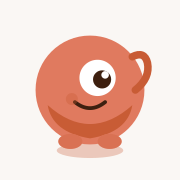
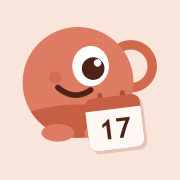
Give TEMPPO a mascot that holds the day, and put billing away until it is real
The old mark was a friendly blob. This one holds a calendar card, which says
what the product is at 32 pixels — the size it is actually seen at, in the
sidebar and on a home screen.

The artwork lives in two places, because one is JSX and the other is fed to a
rasteriser, and there is no loader that would serve both. They are now
cross-referenced so a change to one is a change to both, followed by
`npm run icons`.

The rasteriser has no webfonts, so the date asked for Nunito and silently got a
serif — the one thing on the mark that has to read as a number. The PNG path now
names faces fontconfig can resolve. The delivered app icon's own rounded corners
were dropped too: iOS and Android mask icons themselves, and a baked-in radius
gets rounded twice.

Billing is hidden behind one flag, for every role. No studio is being charged
yet, so a "choose a plan" tab and a "your trial is ending" banner both offer a
decision nobody can act on — and the banner would point at a tab that is no
longer there. The route still answers, so the Mercado Pago flow can be exercised
before it is announced; the flag is the whole launch.

Also finishes the guided tour's settings steps. Studio, rules, sedes and team
all live on one page, so "llevame ahí" pushed the route it was already on and
did nothing. They point at their own section now — and scrolling no longer
trusts `behavior: "smooth"`, which is a silent no-op in some in-app browsers:
[…]

Changed region(s): [[0.1111, 0.1389, 0.8889, 0.8889]]

diff --git a/src/components/brand.tsx b/src/components/brand.tsx
@@ -5,55 +5,80 @@ import { cn } from "@/lib/cn";
  *
  * Colours are literal rather than themed: this is the company mark, so it
  * stays constant even when a studio overrides the app's accent colour.
+ *
+ * The same artwork is rasterised into the PWA icon set by scripts/icons.mjs —
+ * change one and run `npm run icons` so the two do not drift apart.
  */
 export function Mascot({ className, size = 32 }: { className?: string; size?: number }) {
   return (
     <svg
       width={size}
       height={size}
-      viewBox="0 0 100 100"
+      viewBox="0 0 240 240"
       fill="none"
       className={className}
       aria-hidden
     >
-      {/* Ground shadow */}
-      <ellipse cx="50" cy="90" rx="22" ry="5" fill="#C85C35" opacity="0.3" />
+      {/* The inner offset is part of the artwork: it centres the mascot once
+          the calendar card it holds is accounted for. */}
+      <g transform="translate(-9,-4)">
+        {/* Tail */}
+        <path
+          d="M170 62 A34 34 0 1 1 174 114"
+          fill="none"
+          stroke="#D2694A"
+          strokeWidth="15"
+          strokeLinecap="round"
+        />
 
-      {/* Body */}
-      <circle cx="50" cy="50" r="36" fill="#E07A5F" />
-      <path d="M22 60 Q50 85 78 60 Q75 78 50 82 Q25 78 22 60Z" fill="#C85C35" />
+        {/* Body */}
+        <circle cx="110" cy="112" r="88" fill="#DD7C63" />
+        <path d="M35 158 Q110 136 185 158 A88 88 0 0 1 35 158 Z" fill="#C75F43" />
 
-      {/* Feet */}
-      <ellipse cx="37" cy="84" rx="8" ry="5" fill="#E07A5F" />
-      <ellipse cx="37" cy="84" rx="8" ry="5" fill="#C85C35" opacity="0.3" />
-      <ellipse cx="63" cy="84" rx="8" ry="5" fill="#E07A5F" />
-      <ellipse cx="63" cy="84" rx="8" ry="5" fill="#C85C35" opacity="0.3" />
+        {/* Feet */}
+        <ellipse cx="78" cy="192" rx="26" ry="14" fill="#DD7C63" />
+        <ellipse cx="146" cy="192" rx="26" ry="14" fill="#DD7C63" />
 
-      {/* Eye */}
-      <circle cx="55" cy="42" r="12" fill="#FFFFFF" />
-      <circle cx="58" cy="43" r="6" fill="#3D2010" />
-      <circle cx="60" cy="40" r="2.5" fill="#FFFFFF" />
+        {/* Blush */}
+        <circle cx="74" cy="104" r="10" fill="#CE6349" opacity="0.55" />
 
-      {/* Smile */}
-      <path
-        d="M40 58 Q50 66 60 58"
-        stroke="#3D2010"
-        strokeWidth="2.5"
-        strokeLinecap="round"
-        fill="none"
-      />
+        {/* Eye */}
+        <ellipse cx="130" cy="86" rx="29" ry="32" fill="#FFFFFF" />
+        <circle cx="134" cy="90" r="18" fill="#4E2317" />
+        <circle cx="141" cy="81" r="6" fill="#FFFFFF" />
 
-      {/* Tail */}
-      <path
-        d="M80 50 Q90 42 88 32 Q86 24 78 28"
-        stroke="#C85C35"
-        strokeWidth="5"
-        strokeLinecap="round"
-        fill="none"
-      />
+        {/* Smile */}
+        <path
+          d="M78 120 Q104 142 130 124"
+          fill="none"
+          stroke="#4E2317"
+          strokeWidth="9"
+          strokeLinecap="round"
+        />
 
-      {/* Blush */}
-      <circle cx="38" cy="56" r="4" fill="#C85C35" opacity="0.35" />
+        {/* The day it is holding — the product in one object. */}
+        <g transform="rotate(-7 168 176)">
+          <rect x="128" y="139" width="88" height="84" rx="13" fill="#A64A2C" opacity="0.22" />
+          <rect x="146" y="126" width="8" height="14" rx="4" fill="#B0512F" />
+          <rect x="182" y="126" width="8" height="14" rx="4" fill="#B0512F" />
+          <rect x="124" y="134" width="88" height="84" rx="13" fill="#C75F43" />
+          <path
+            d="M124 154 h88 v51 a13 13 0 0 1 -13 13 h-62 a13 13 0 0 1 -13 -13 z"
+            fill="#FFF8F5"
+          />
+          <text
+            x="168"
+            y="201"
+            textAnchor="middle"
+            fontFamily="Nunito, Trebuchet MS, sans-serif"
+            fontSize="44"
+            fontWeight="800"
+            fill="#4E2317"
+          >
+            17
+          </text>
+        </g>
+      </g>
     </svg>
   );
 }

diff --git a/src/components/app/guided-tour.tsx b/src/components/app/guided-tour.tsx
@@ -91,10 +91,10 @@ type Step = {
 */
 const SETUP_STEPS: Step[] = [
   { key: "welcomeStaff", phase: "setup" },
-  { key: "studio", phase: "setup", href: "/settings" },
-  { key: "rules", phase: "setup", href: "/settings" },
-  { key: "locations", phase: "setup", href: "/settings", needs: "locations" },
-  { key: "teachers", phase: "setup", href: "/settings", needs: "teachers" },
+  { key: "studio", phase: "setup", href: "/settings#studio" },
+  { key: "rules", phase: "setup", href: "/settings#rules" },
+  { key: "locations", phase: "setup", href: "/settings#locations", needs: "locations" },
+  { key: "teachers", phase: "setup", href: "/settings#team", needs: "teachers" },
   { key: "packs", phase: "setup", href: "/packs", needs: "packs" },
   { key: "classes", phase: "setup", href: "/classes", needs: "classes" },
   { key: "students", phase: "setup", href: "/students", needs: "students" },
@@ -273,12 +273,39 @@ export function GuidedTour({
   const move = (delta: number) =>
     setIndex((current) => Math.min(Math.max(0, current + delta), steps.length - 1));
 
-  /** Hands the screen over so the step can actually be carried out. */
+  /**
+   * Hands the screen over so the step can actually be carried out.
+   *
+   * Several setup steps live on the same page — studio, rules, sedes and team
+   * are all inside Ajustes. Pushing that route while already on it is a no-op,
+   * so "llevame ahí" appeared to do nothing at all. When the anchor is already
+   * in the document we scroll to it instead, and only navigate when it isn't.
+   */
   const visit = (href: string) => {
     writePlace({ index, open: false });
     setRunning(false);
     setPaused(true);
-    router.push(href);
+
+    const [path, anchor] = href.split("#");
+    const target = anchor ? document.getElementById(anchor) : null;
+
+    if (target) {
+      const before = window.scrollY;
+      target.scrollIntoView({ behavior: "smooth", block: "start" });
+
+      /*
+        Smooth scrolling is a silent no-op in some embedded and in-app browsers
+        — the call returns, nothing moves, and the button looks dead. If we
+        haven't travelled a moment later, jump instead: arriving abruptly beats
+        not arriving.
+      */
+      setTimeout(() => {
+        if (Math.abs(window.scrollY - before) < 4) target.scrollIntoView({ block: "start" });
+      }, 200);
+      return;
+    }
+
+    router.push(anchor ? `${path}#${anchor}` : path);
   };
 
   const resume = () => {

diff --git a/scripts/verify-tour.ts b/scripts/verify-tour.ts
@@ -85,8 +85,27 @@ const routes = readdirSync("src/app/[locale]/(app)", { withFileTypes: true })
   .filter((entry) => entry.isDirectory())
   .map((entry) => `/${entry.name}`);
 
-const deadEnds = staffSteps.filter((s) => s.href && !routes.includes(s.href)).map((s) => s.href);
+/*
+  An href may carry an anchor — several setup steps live in different sections
+  of Ajustes — so the route is what gets checked, and the anchor separately.
+*/
+const deadEnds = staffSteps
+  .filter((s) => s.href && !routes.includes(s.href.split("#")[0]))
+  .map((s) => s.href);
 check("every 'take me there' goes somewhere real", deadEnds, []);
+
+// An anchor that names no element scrolls nowhere, which is the bug this
+// replaced: the step pointed at the page it was already on and did nothing.
+const anchors = staffSteps
+  .map((s) => s.href?.split("#")[1])
+  .filter((a): a is string => Boolean(a));
+
+const settingsSource = readFileSync("src/app/[locale]/(app)/settings/page.tsx", "utf8");
+check(
+  "every anchored step has a section to scroll to",
+  anchors.filter((a) => !settingsSource.includes(`id="${a}"`)),
+  [],
+);
 
 check(
   "no step key is used twice",

diff --git a/src/app/[locale]/(app)/dashboard/page.tsx b/src/app/[locale]/(app)/dashboard/page.tsx
@@ -1,7 +1,7 @@
 import { getTranslations, setRequestLocale } from "next-intl/server";
 import { Link } from "@/i18n/navigation";
 import { ADMIN_ROLES, requireStaff } from "@/lib/auth/guards";
-import { billingWarning, subscriptionFor } from "@/lib/billing";
+import { BILLING_UI_ENABLED, billingWarning, subscriptionFor } from "@/lib/billing";
 import { db } from "@/lib/db";
 import { ensureInstances } from "@/lib/classes";
 import { addDays, formatTime, startOfDayInZone, startOfMonthInZone } from "@/lib/dates";
@@ -168,8 +168,12 @@ export default async function DashboardPage({
     A warning here never gates anything — a studio behind on its bill keeps
     working, and cutting one off stays a deliberate call from the console.
   */
+  // Silent while billing is unannounced — a banner pointing at a hidden tab is
+  // worse than no banner at all.
   const billing =
-    user.role === "OWNER" ? billingWarning(studio, await subscriptionFor(studio.id), now) : null;
+    BILLING_UI_ENABLED && user.role === "OWNER"
+      ? billingWarning(studio, await subscriptionFor(studio.id), now)
+      : null;
 
   return (
     <>

diff --git a/src/app/[locale]/(app)/settings/page.tsx b/src/app/[locale]/(app)/settings/page.tsx
@@ -36,7 +36,7 @@ export default async function SettingsPage({
       <PageHeader title={t("title")} />
 
       <div className="space-y-4">
-        <Card>
+        <Card id="studio">
           <CardHeader title={t("studio")} />
           <CardBody>
             <StudioForm
@@ -61,7 +61,7 @@ export default async function SettingsPage({
           </CardBody>
         </Card>
 
-        <Card>
+        <Card id="rules">
           <CardHeader title={t("rules")} />
           <CardBody>
             <RulesForm
@@ -77,7 +77,7 @@ export default async function SettingsPage({
           </CardBody>
         </Card>
 
-        <Card>
+        <Card id="locations">
           <CardHeader title={t("locations")} />
           <CardBody className="space-y-4">
             <ul className="divide-y divide-line">
@@ -99,7 +99,7 @@ export default async function SettingsPage({
           </CardBody>
         </Card>
 
-        <Card>
+        <Card id="team">
           <CardHeader title={t("team")} />
           <CardBody className="space-y-4">
             <ul className="divide-y divide-line">

diff --git a/src/components/app/nav-items.ts b/src/components/app/nav-items.ts
@@ -1,4 +1,5 @@
 import type { Role } from "@/generated/prisma/enums";
+import { BILLING_UI_ENABLED } from "@/lib/billing/plans";
 
 export type NavItem = {
   href: string;
@@ -38,11 +39,20 @@ const STUDENT_NAV: NavItem[] = [
   { href: "/buy", label: "buy", icon: "ticket" },
 ];
 
+/*
+  Withheld from everyone, regardless of role, while billing is not yet live.
+  See BILLING_UI_ENABLED: the route still answers, it is only unadvertised.
+*/
+const HIDDEN = BILLING_UI_ENABLED ? [] : ["/billing"];
+
 export function navFor(role: Role): NavItem[] {
   if (role === "STUDENT") return STUDENT_NAV;
-  if (role === "INSTRUCTOR") return STAFF_NAV.filter((i) => INSTRUCTOR_ALLOWED.includes(i.href));
-  if (role === "ADMIN") return STAFF_NAV.filter((i) => !OWNER_ONLY.includes(i.href));
-  return STAFF_NAV;
+
+  const staff = STAFF_NAV.filter((i) => !HIDDEN.includes(i.href));
+
+  if (role === "INSTRUCTOR") return staff.filter((i) => INSTRUCTOR_ALLOWED.includes(i.href));
+  if (role === "ADMIN") return staff.filter((i) => !OWNER_ONLY.includes(i.href));
+  return staff;
 }
 
 /**

diff --git a/src/components/ui/card.tsx b/src/components/ui/card.tsx
@@ -1,8 +1,23 @@
 import type { ReactNode } from "react";
 import { cn } from "@/lib/cn";
 
-export function Card({ className, children }: { className?: string; children: ReactNode }) {
-  return <div className={cn("card", className)}>{children}</div>;
+export function Card({
+  className,
+  children,
+  id,
+}: {
+  className?: string;
+  children: ReactNode;
+  /** Anchor for deep links — the guided tour scrolls to these. */
+  id?: string;
+}) {
+  return (
+    /* scroll-mt keeps an anchored section clear of the header, whether it is
+       reached by the guided tour or by a #hash in the URL. */
+    <div id={id} className={cn("card", id && "scroll-mt-20", className)}>
+      {children}
+    </div>
+  );
 }
 
 export function CardHeader({

diff --git a/src/lib/billing/plans.ts b/src/lib/billing/plans.ts
@@ -57,3 +57,17 @@ export function extendedPeriodEnd(
   const from = currentPeriodEnd && currentPeriodEnd > now ? currentPeriodEnd : now;
   return addMonths(from, months);
 }
+
+/**
+ * Whether studios see the subscription UI at all.
+ *
+ * Off while TEMPPO is still in its own trial phase: nobody is being charged
+ * yet, so a "choose a plan" tab and a "your trial is ending" banner both offer
+ * a decision the studio cannot act on, and invite questions we do not want to
+ * answer yet.
+ *
+ * The /billing route itself stays reachable by URL, so the whole flow can be
+ * exercised before it is announced. Flip this to true to launch — nothing else
+ * needs to change.
+ */
+export const BILLING_UI_ENABLED = false;
